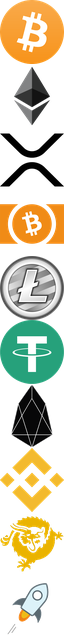
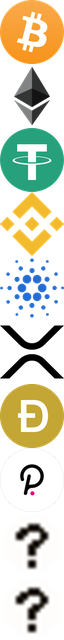
fix cmc api

diff --git a/main.py b/main.py
@@ -8,9 +8,9 @@ from userpw import *
 try:
     cmcdata = cmc.getcmc()
     cmctext = ''
-    for i in cmcdata:
-        print(i["id"])
-        cmctext += "{0}. **{1} ({2}) - ${3:.2f}B - ${4:.2f}**\n".format(i["rank"], i["name"], i["symbol"], float(i["market_cap_usd"])/1e9, float(i["price_usd"]))
+    for i in cmcdata["data"]:
+        print(i["id"], i["slug"])
+        cmctext += "{0}. **{1} ({2}) - ${3:.2f}B - ${4:.2f}**\n".format(i["cmc_rank"], i["name"], i["symbol"], float(i["quote"]["USD"]["market_cap"])/1e9, float(i["quote"]["USD"]["price"]))
     cmctext = cmctext[:-1]
     print(cmctext)
     with open('pyticker.log', 'a') as f:
@@ -20,7 +20,7 @@ except:
         f.write("{} - failed to get ticker data\n".format(str(datetime.now())))
 
 try:
-    tickerimg = imggen.imggen(cmcdata)
+    tickerimg = imggen.imggen(cmcdata["data"])
     with open('pyticker.log', 'a') as f:
         f.write("{} - successfully created ticker image\n".format(str(datetime.now())))
 except:
@@ -41,13 +41,17 @@ try:
     sstext = ss.stylesheet
     settings = praw.models.reddit.subreddit.SubredditModeration(sub).settings()
     sidebar_contents = settings['description']
-    sidebar_contents = re.sub(r'(1\. \*\*Bitcoin.+\n.+\n.+\n.+\n.+\n.+\n.+\n.+\n.+\n.+)', cmctext, sidebar_contents)
-    # sub.stylesheet.upload("ticker", "img/temp/ticker.png")
-    sub.stylesheet.upload("crypto-top10", "img/temp/ticker.png")
-    sub.stylesheet.update(sstext)
-    praw.models.reddit.subreddit.SubredditModeration(sub).update(description=sidebar_contents)
-    with open('pyticker.log', 'a') as f:
-        f.write("{} - successfully updated reddit\n".format(str(datetime.now())))
+    if len(cmctext) > 30:
+        sidebar_contents = re.sub(r'(1\. \*\*Bitcoin.+\n.+\n.+\n.+\n.+\n.+\n.+\n.+\n.+\n.+)', cmctext, sidebar_contents)
+        # sub.stylesheet.upload("ticker", "img/temp/ticker.png")
+        sub.stylesheet.upload("crypto-top10", "img/temp/ticker.png")
+        sub.stylesheet.update(sstext)
+        praw.models.reddit.subreddit.SubredditModeration(sub).update(description=sidebar_contents)
+        with open('pyticker.log', 'a') as f:
+            f.write("{} - successfully updated reddit\n".format(str(datetime.now())))
+    else:
+        with open('pyticker.log', 'a') as f:
+            f.write("{} - failed because cmctext too short\n".format(str(datetime.now())))
 except:
     with open('pyticker.log', 'a') as f:
         f.write("{} - failed to update reddit\n".format(str(datetime.now())))

diff --git a/cmc.py b/cmc.py
@@ -1,11 +1,23 @@
 import requests
 
-cmcurl = 'https://api.coinmarketcap.com/v1/ticker?limit=10'
-
 def getcmc():
+    url = 'https://pro-api.coinmarketcap.com/v1/cryptocurrency/listings/latest'
+    apikey = 'd3c686b8-d6ab-4c27-8ed9-39e0bd8c254b'
+    parameters = {
+            'start':'1',
+            'limit':'10',
+
+            }
+    headers = {
+        'Accepts': 'application/json',
+        'X-CMC_PRO_API_KEY': apikey,
+        }
+    session = requests.Session()
+    session.headers.update(headers)
+
     ticker_string = ''
     try:
-        r = requests.get('https://api.coinmarketcap.com/v1/ticker?limit=10')
+        r = session.get(url, params=parameters)
         j = r.json()
         with open('cachedCMC.txt', 'w') as f:
             f.write(r.text)

diff --git a/imggen.py b/imggen.py
@@ -19,7 +19,8 @@ def imggen(cmcdata):
     for idx,val in enumerate(cmcdata):
         coinimg = Image.open("img/newcoin/unknown.png")
         try: 
-            coinimg = Image.open("img/newcoin/{}.png".format(val["id"]))
+            print("Attempting to add picture of {}".format(val["slug"]))
+            coinimg = Image.open("img/newcoin/{}.png".format(val["slug"]))
         except:
             pass 
         tickerimg.paste(coinimg, (0, idx*64))
